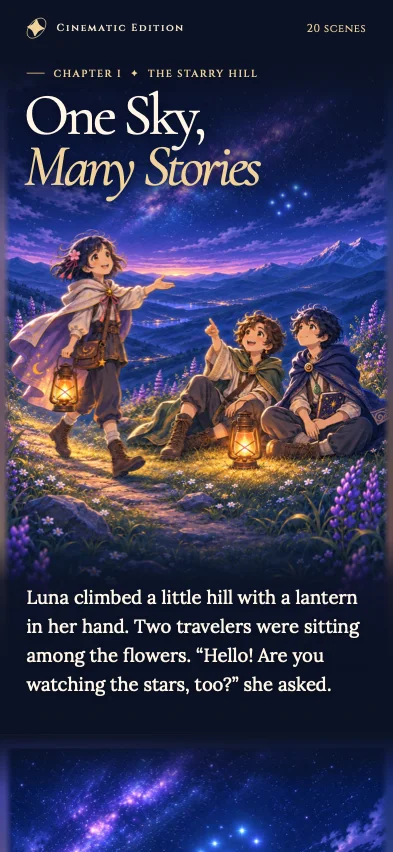
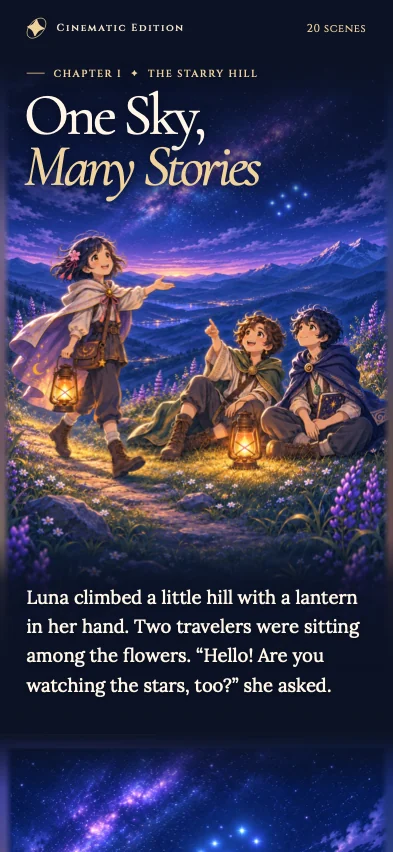
docs: show the read-aloud journey and validated mobile scenes

diff --git a/docs/portrait-qa.md b/docs/portrait-qa.md
@@ -4,16 +4,22 @@
 
 ## 読書画面での確認結果
 
-2026年11月26日、iPhone・iPad相当のWebKit 27.2とデスクトップのChromium 159で本番ビルドを検査し、45件すべてが成功した（46.2秒）。配布物は79ファイル、15,877,960バイト。縦版では20場面の全英文が原本と一致し、本文を23箇所で読めた。縦の20枚、望遠鏡の視野、無人の稜線は、配信されたWebPのSHA-256がローカル原画と一致した。横画面でも20枚すべてのPDF由来の挿絵を照合した。
+2026年11月26日、iPhone・iPad相当のWebKit 27.2とデスクトップのChromium 159で本番ビルドを検査し、60件すべてが成功した（約1分12秒）。配布物は80ファイル、16,010,060バイト。縦版では20場面の全英文が原本と一致し、本文を23箇所で読めた。縦の20枚、祖母の回想が始まる前の夜空、望遠鏡の視野、無人の稜線は、配信されたWebPのSHA-256がローカル原画と一致した。横画面でも20枚すべてのPDF由来の挿絵を照合した。
 
 | 縦画面 | 検査した英文 | 本文の最低コントラスト | 比較した行背景の画素数 |
 | --- | ---: | ---: | ---: |
-| iPhone 16相当 · 393 × 852 | 23箇所 | 14.61:1（第4場面） | 644,798 |
+| iPhone 16相当 · 393 × 852 | 23箇所 | 14.58:1（第4場面） | 643,884 |
 | iPad Pro 11相当 · 834 × 1194 | 23箇所 | 14.10:1（第4場面） | 909,009 |
 
 上下に動かしたとき、絵と英文は標準スクロールの移動量に対して2 CSS px以内で追従した。第9場面の英文がまだ見えているうちに第10場面の稜線を眺められる。第7・11場面の問いで90秒相当静置したあとも、読んでいる位置と次の答えの順序を保持した。発声、音声再生、録音の呼び出しは全編で0件。200%の文字サイズでも第17場面の長文は横にはみ出さず、通信断の第12場面は接続が戻ると同じ位置で原画を再表示した。
 
 iPhone・iPadの全20場面の画面写真と分割された答えを目視し、星を見上げる人物、台詞の改行、前後の絵のつながりを確認した。iPhoneの表紙はSafariのバーを広げると冒頭が隠れていたため、タイトルを絵の上の空に重ねた。修正後はiOS 26.5のiPhone 16 Simulator上のSafariで、登場人物3人と冒頭の段落全体が初期画面に収まった。上下のバーを見込んだ393 × 700 CSS pxのWebKitでも、第一文の下端は画面上端から638 pxだった。[iPhoneの表紙](screenshots/iphone-01.webp)・[第9場面から第10場面の途中](screenshots/iphone-09-to-10.webp)・[デスクトップの冒頭](screenshots/desktop-opening.webp)
+
+## 紙面を止めたところで見る
+
+第4場面は空の右上に祖母の姿が浮かび、第10場面は同じ稜線に七姉妹が現れる。画像の原寸上で位置を揃え、半分だけ送って指を止めても前景がずれないことを確かめた。第11場面ではルナの問いの先で七人を眺め、さらに送るとレオの答えを読める。[第4場面の途中](screenshots/iphone-04-memory.webp)・[第10場面の途中](screenshots/iphone-10-myth.webp)・[七姉妹の場面](screenshots/iphone-11-sisters.webp)
+
+iOS 26.5のiPhone 16シミュレーターでMobile Safariを起動し、画面上の連続ドラッグで23箇所をたどった。Safariのアクセシビリティ表示から取得した23個の英文は、句読点を含めてPDFと一致した。第11場面からホーム画面に出て戻り、同じ英文が同じ位置に残ることを確認した。iPad Air 11のシミュレーターでも全23箇所の英語と逆読みを調べ、分割表示と縦横回転を確認した。
 
 ## 再現方法
 
@@ -36,7 +42,7 @@ PLAYWRIGHT_PUBLIC_URL=https://belltreetech.github.io/one-sky-many-stories/ npm t
 ## 何を確かめるか
 
 - **絵と英文を同じ指の動きで読む。** 主絵と本文が動いた距離をブラウザのスクロール量と比較し、任意の途中位置で止まることと、戻った時の構図を確かめる。Chromiumではホイールに加えてブラウザの入力プロトコルからタッチ開始・移動・終了を送り、標準のスワイプを動かす。モバイルWebKitではハードウェアキーボードによるネイティブスクロールを検査する。
-- **場面がつながる。** 第9・10場面の境界を画面の途中に置き、両方の場面に属する絵または英文が同時に見えることを確かめる。青い本と神話の間に人物のいない稜線の絵が入り、前後の七姉妹が別々の絵として続く。第8場面では丘と望遠鏡の中が文書順に見え、第11場面では読者が止めたカメラと、髪・袖・雲に残る短い動きを別々に測る。[縦絵の検査](../tests/portrait.spec.ts)
+- **場面がつながる。** 第9・10場面の境界を画面の途中に置き、両方の場面に属する絵または英文が同時に見えることを確かめる。青い本で語られた風景のあと、同じ稜線に七姉妹が現れる。第4場面では祖母の記憶が元の夜空の右上だけに浮かぶ。第8場面では丘と望遠鏡の中が文書順に見え、第11場面では読者が止めたカメラと、髪・袖・雲に残る短い動きを別々に測る。[縦絵の検査](../tests/portrait.spec.ts)
 - **読み手が声に出す。** 開いた直後に本編があること、開始・ページ操作・音声のボタンを必要としないことを確認する。発声・音声再生・録音機能を備えた端末の条件を模し、全編をたどって呼び出しが生じるかを調べる。音声APIが使えない環境でも、第7・11場面の問いで90秒相当待ち、同じ位置に留まること、手で送ると答えを読めることを確かめる。[読み聞かせの検査](../tests/read-together.spec.ts)
 - **原文・原画・アクセシビリティ。** PDFから独立に抽出した英文と実際のDOMを全20場面で照合する。画像を実ブラウザでデコードし、縦横の選択、画像説明、種類、解像度、配信バイトのSHA-256を検査する。WebPを取得できない時の代替、通信復帰、Canvasを使えない場合、200%の文字拡大、縦横回転、動きを減らす設定での通読にも検査を設ける。[PDF照合データ](../tests/fixtures/pdf-oracle.json)・[全編のテスト](../tests/reader.spec.ts)
 - **英文のコントラスト。** 読書位置で文字を一時的に透明にし、画像、グラデーション、半透明レイヤーの合成後の画素を取得する。実際の文字色と各行の背景のコントラスト比を算出し、最小値が4.5:1以上かを判定する。行の内側の空白も対象とし、文字のアンチエイリアスは計算に含めない。[測定コード](../tests/readability.ts)

diff --git a/README.md b/README.md
@@ -75,11 +75,11 @@ npx --no-install playwright install chromium webkit
 npm test
 ```
 
-テストにはPython 3も使う。Playwrightが一時静的サーバーを127.0.0.1:4182で起動し、実際の `dist/` を `/one-sky-many-stories/` にマウントする。スクリーンショットは `artifacts/screenshots/`、失敗時のトレースは `artifacts/test-results/` に出力する。
+テストにはPython 3も使う。Playwrightが一時静的サーバーを127.0.0.1:4182で起動し、実際の `dist/` を `/one-sky-many-stories/` にマウントする。スクリーンショットと失敗時のトレースは、それぞれ `artifacts/webtoon-qa/screenshots/` と `artifacts/webtoon-qa/test-results/` に出力する。
 
 ### 連続縦読み版の検証
 
-[縦版の検証記録と再現手順](docs/portrait-qa.md)に、iPhone・iPad・デスクトップでの全編の通読、19の場面境界、文字拡大、逆読み、画面回転、動きの軽減、通信復帰の結果を記録する。原文の照合は第7・8・11場面の後半も含む23箇所で行う。
+[縦版の検証記録と再現手順](docs/portrait-qa.md)に、iPhone・iPad・デスクトップで通過した60件の検査を記録した。全編の通読、19の場面境界、文字拡大、逆読み、画面回転、動きの軽減、通信復帰を含む。原文の照合は第7・8・11場面の後半も含む23箇所で行う。
 
 ### Foundation版の検証記録
 
